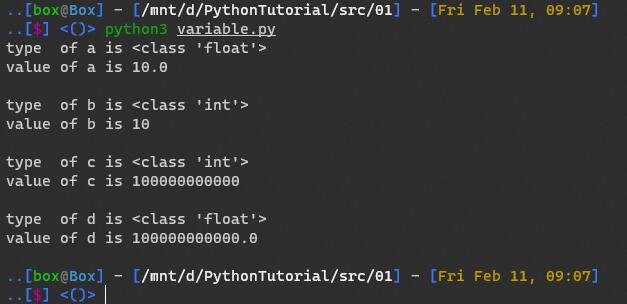
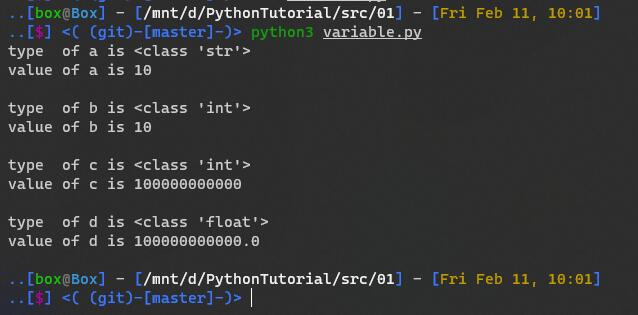
update

diff --git a/src/01/arithmetic_problem.py b/src/01/arithmetic_problem.py
@@ -1,0 +1,15 @@
+apple = 241
+orange = 42
+num_classmate = 21
+
+classmate_apple =          #补充此处的代码
+classmate_orange =         #补充此处的代码
+
+xiaoming_apple =           #补充此处的代码
+xiaoming_orange =          #补充此处的代码
+
+print("Each classmate has {} apples".format(classmate_apple))
+print("Each classmate has {} oranges".format(classmate_orange))
+
+print("Xiao Ming has {} apples".format(xiaoming_apple))
+print("Xiao Ming has {} oranges".format(xiaoming_orange))

diff --git a/src/01/arithmetic_problem_answer.py b/src/01/arithmetic_problem_answer.py
@@ -1,0 +1,15 @@
+apple = 241
+orange = 42
+num_classmate = 21
+
+classmate_apple = apple // num_classmate
+classmate_orange = orange // num_classmate
+
+xiaoming_apple = apple % num_classmate
+xiaoming_orange = orange % num_classmate
+
+print("Each classmate has {} apples".format(classmate_apple))
+print("Each classmate has {} oranges".format(classmate_orange))
+
+print("Xiao Ming has {} apples".format(xiaoming_apple))
+print("Xiao Ming has {} oranges".format(xiaoming_orange))

diff --git a/src/01/input.py b/src/01/input.py
@@ -1,0 +1,9 @@
+a = input("Enter an integer: ")
+b = input()
+
+print ("type  of a is {}".format(type(a)))
+print ("value of a is {}\n".format(a))
+
+print ("type  of b is {}".format(type(b)))
+print ("value of b is {}\n".format(b))
+

diff --git a/src/01/variable_problem_answer.py b/src/01/variable_problem_answer.py
@@ -1,0 +1,8 @@
+a = input("Enter a number: ")
+b = input("Enter another number: ")
+
+num_a = int(a)
+num_b = int(b)
+
+c = num_a + num_b
+print(c)

diff --git a/src/01/variable.py b/src/01/variable.py
@@ -1,4 +1,4 @@
-a = 10.0 #浮点数
+a = "10" #字符串
 print ("type  of a is {}".format(type(a)))
 print ("value of a is {}\n".format(a))
 

diff --git a/01.md b/01.md
@@ -40,6 +40,19 @@ print (x,y)
 ```
 ![](/img/01/2.jpg)
 
+## 输入 `input()` 函数
+```python
+a = input("Enter an integer: ")
+b = input()
+
+print ("type  of a is {}".format(type(a)))
+print ("value of a is {}\n".format(a))
+
+print ("type  of b is {}".format(type(b)))
+print ("value of b is {}\n".format(b))
+```
+此时 `a`与`b`的变量类型为 `字符串` 类型
+
 ## 变量
 由于变量让你能够把程序中准备使用的每一段数据都赋给一个简短、易于记忆的名字。变量可以保存程序运行时用户输入的数据、特定运算的结果以及要显示的一段数据等。
 ### 变量类型 与 变量赋值
@@ -80,7 +93,7 @@ b = 100000.1212
 ```
 ### 类型转换
 ```python
-a = 10.0 #浮点数
+a = "10" #字符串
 print ("type  of a is {}".format(type(a)))
 print ("value of a is {}\n".format(a))
 
@@ -99,11 +112,17 @@ print ("value of d is {}\n".format(d))
 ```
 ![](/img/01/4.jpg)
 
+
+
 ## 算术运算符
 - `+` 运算符两侧的变量相加
 - `-` 运算符两侧的变量相减
 - `*` 运算符两侧的变量相乘
 - `/` 运算符两侧的变量相除
+  
+请实现以下程序功能：
+- 请求用户输入两个数 `a`, `b`
+- 输出`a b`两数之和
 ---
 - `**` 幂运算
 - `%` 除法 取余数
@@ -164,11 +183,4 @@ print("Each classmate has {} oranges".format(classmate_orange))
 print("Xiao Ming has {} apples".format(xiaoming_apple))
 print("Xiao Ming has {} oranges".format(xiaoming_orange))
 
-```
-
-## 布尔变量
-两种变量类型，分别是：`True` `False`
-```python
-n = True
-b = False
 ```

diff --git a/temp.md b/temp.md
@@ -1,0 +1,15 @@
+## 字符串
+> 字符串（英語：string），是由零个或多个字符组成的有限序列
+
+可以使用引号( `'` 或 `"` )来创建字符串
+```python
+var1 = 'Hello World!'
+var2 = "Hello World!"
+```
+
+## 布尔变量
+两种变量类型，分别是：`True` `False`
+```python
+n = True
+b = False
+```
